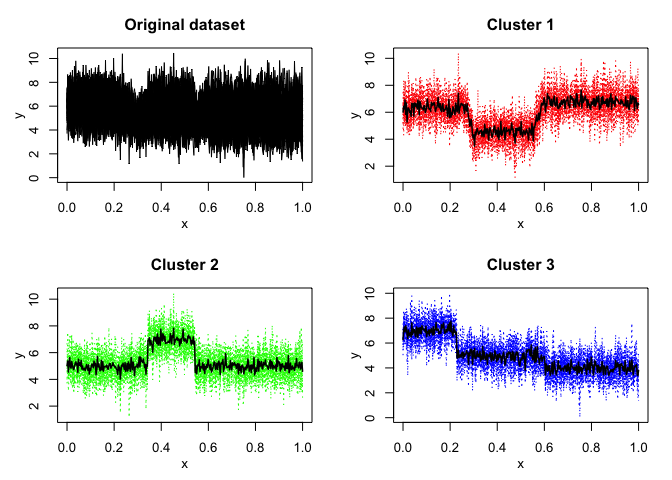
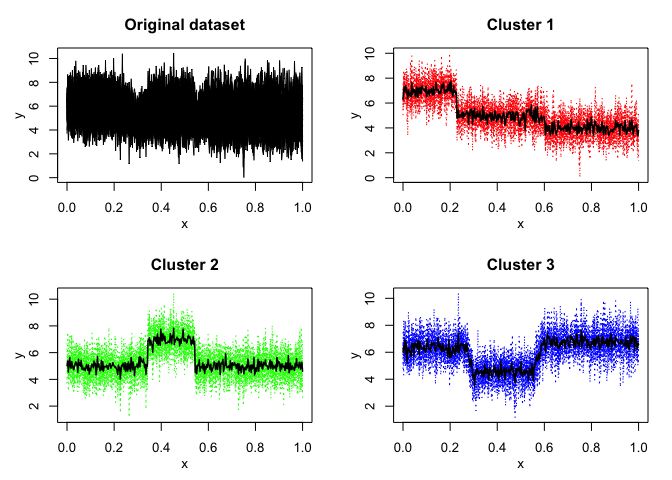
Replace 'cat()' by 'message()' + Update examples
- emMixHMM: Replace 'cat()' by 'message()'. Thus messages can be suppressed if needed;
- Update examples.

diff --git a/README.md b/README.md
@@ -47,6 +47,7 @@ library(mixHMM)
 ``` r
 # Application to a toy data set
 data("toydataset")
+Y <- t(toydataset[,2:ncol(toydataset)])
 
 K <- 3 # Number of clusters
 R <- 3 # Number of regimes (HMM states)
@@ -59,7 +60,7 @@ init_kmeans <- TRUE
 threshold <- 1e-6
 verbose <- TRUE
 
-mixhmm <- emMixHMM(t(toydataset[,2:ncol(toydataset)]), K, R, variance_type,
+mixhmm <- emMixHMM(Y = Y, K, R, variance_type,
                    ordered_states, init_kmeans, n_tries, max_iter, threshold, 
                    verbose)
 #> EM - mixHMMs: Iteration: 1 | log-likelihood: -19054.7157954833
@@ -95,13 +96,13 @@ mixhmm$summary()
 #> 
 #> Means:
 #> 
-#>     r = 1    r = 2    r = 3
-#>  6.319189 4.583954 6.722627
+#>    r = 1    r = 2    r = 3
+#>  7.00202 4.964273 3.979626
 #> 
 #> Variances:
 #> 
 #>  Sigma2(r = 1) Sigma2(r = 2) Sigma2(r = 3)
-#>      0.9571803     0.9504731       1.01553
+#>      0.9858726     0.9884542     0.9651437
 #> 
 #> -------------------
 #> Cluster 2 (k = 2):
@@ -121,13 +122,13 @@ mixhmm$summary()
 #> 
 #> Means:
 #> 
-#>    r = 1    r = 2    r = 3
-#>  7.00202 4.964273 3.979626
+#>     r = 1    r = 2    r = 3
+#>  6.319189 4.583954 6.722627
 #> 
 #> Variances:
 #> 
 #>  Sigma2(r = 1) Sigma2(r = 2) Sigma2(r = 3)
-#>      0.9858726     0.9884542     0.9651437
+#>      0.9571803     0.9504731       1.01553
 
 mixhmm$plot()
 ```
